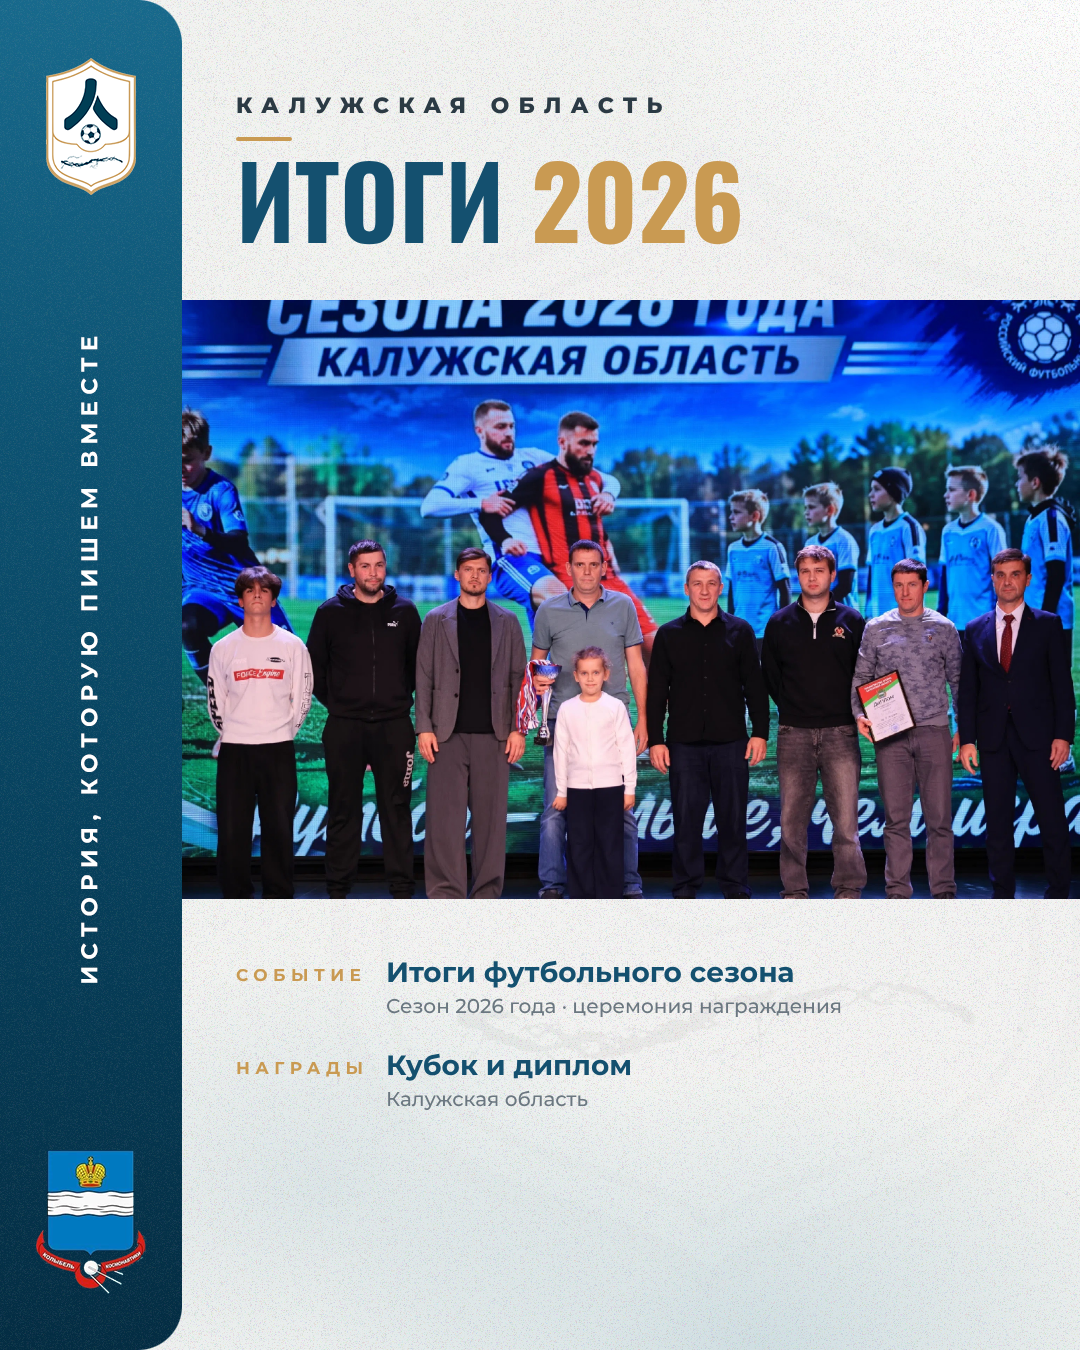
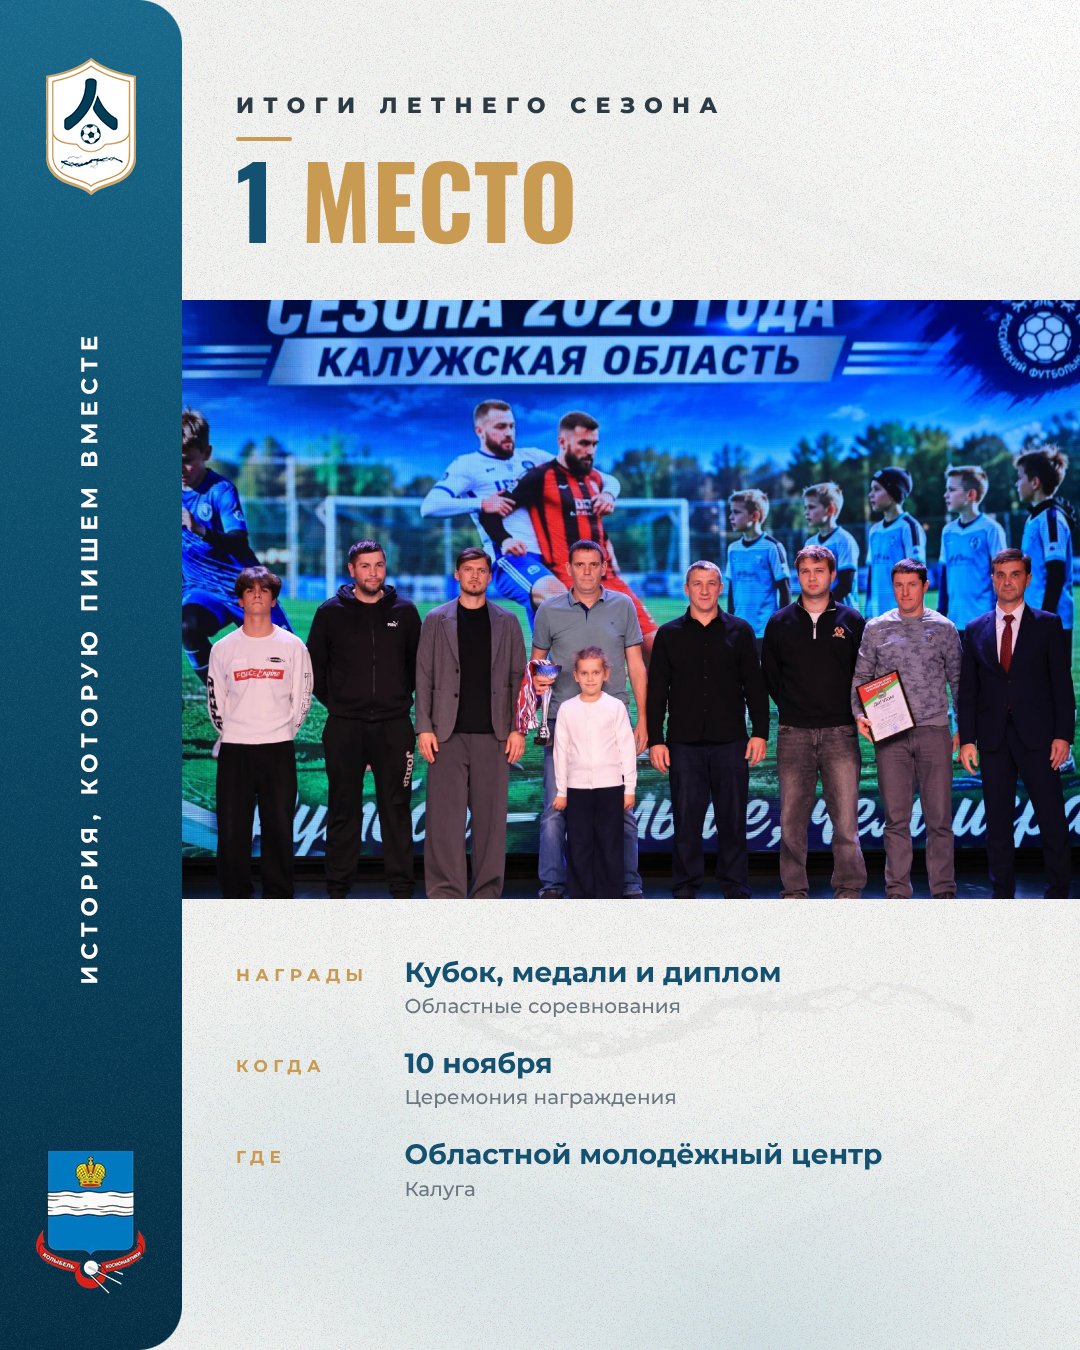
Use post text on cards: team 1st place and individual awards
Claude-Session: https://claude.ai/code/session_01BAoifR2VyKx7kzhUngMqXC

diff --git a/l5-itogi-sezona/source/render.js b/l5-itogi-sezona/source/render.js
@@ -1,11 +1,13 @@
 const {chromium}=require('playwright');const fs=require('fs');const path=require('path');
 const tpl=fs.readFileSync('card.html','utf8');
-const ev=['СОБЫТИЕ','Итоги футбольного сезона','Сезон 2026 года · церемония награждения'];
 const cards=[
- {out:'L5_itogi_sezona_1.png',img:'photo1.jpg',pos:'50% 62%',kick:'КАЛУЖСКАЯ ОБЛАСТЬ',h1:'ИТОГИ <b>2026</b>',
-  rows:[ev,['НАГРАДЫ','Кубок и диплом','Калужская область']]},
- {out:'L5_itogi_sezona_2.png',img:'photo2.png',pos:'50% 60%',kick:'ИТОГИ СЕЗОНА 2026',h1:'ЛИЧНЫЕ <b>НАГРАДЫ</b>',
-  rows:[ev,['НАГРАДЫ','Индивидуальные призы','Калужская область']]},
+ {out:'L5_itogi_sezona_1.png',img:'photo1.jpg',pos:'50% 50%',kick:'ИТОГИ ЛЕТНЕГО СЕЗОНА',h1:'1 <b>МЕСТО</b>',
+  rows:[['НАГРАДЫ','Кубок, медали и диплом','Областные соревнования'],
+        ['КОГДА','10 ноября','Церемония награждения'],
+        ['ГДЕ','Областной молодёжный центр','Калуга']]},
+ {out:'L5_itogi_sezona_2.png',img:'photo2.png',pos:'50% 50%',kick:'ИНДИВИДУАЛЬНЫЕ НОМИНАЦИИ',h1:'ЛУЧШИЕ <b>ИГРОКИ</b>',
+  rows:[['НАПАДЕНИЕ','Иван Родин','Лучший бомбардир и нападающий'],
+        ['ПОЛУЗАЩИТА','Вячеслав Думбрава','Лучший полузащитник']]},
 ];
 (async()=>{const b=await chromium.launch();const p=await b.newPage({viewport:{width:1080,height:1350},deviceScaleFactor:1});
 for(const c of cards){const html=tpl.replace('{{KICK}}',c.kick).replace('{{H1}}',c.h1).replace('{{IMG}}',c.img).replace('{{POS}}',c.pos)

diff --git a/l5-itogi-sezona/source/card.html b/l5-itogi-sezona/source/card.html
@@ -20,7 +20,7 @@ h1{position:absolute;top:148px;font:700 100px/1 Osw;letter-spacing:.005em;color:
 h1 b{color:var(--gold);font-weight:700}
 .card{position:absolute;top:300px;left:-54px;right:-56px}
 .card img{display:block;width:100%;aspect-ratio:3/2;object-fit:cover}
-.rows{position:absolute;top:956px;left:0;right:0;display:grid;grid-template-columns:150px 1fr;row-gap:30px}
+.rows{position:absolute;top:956px;left:0;right:0;display:grid;grid-template-columns:max-content 1fr;column-gap:36px;row-gap:28px}
 .l{font:700 17px Mont;letter-spacing:.32em;color:var(--gold);padding-top:9px}
 .v{font:700 28px/1.15 Mont;color:var(--blue)}
 .v small{display:block;font:500 20px/1.3 Mont;color:var(--muted);margin-top:5px}

diff --git a/l5-itogi-sezona/README.md b/l5-itogi-sezona/README.md
@@ -1,9 +1,9 @@
-# Л5 Калуга — итоги сезона 2026
+# Л5 Калуга — итоги летнего сезона
 
 Две карточки 1080×1350 на фирменном шаблоне группы:
 
-- `L5_itogi_sezona_1.png` — «Итоги 2026», общее фото с кубком и дипломом
-- `L5_itogi_sezona_2.png` — «Личные награды», фото со статуэтками
+- `L5_itogi_sezona_1.png` — «1 место»: кубок, медали, диплом; 10 ноября, Областной молодёжный центр
+- `L5_itogi_sezona_2.png` — «Лучшие игроки»: Иван Родин, Вячеслав Думбрава
 
 Исходники в `source/`: `card.html` — макет, `render.js` — тексты карточек и рендер.
 Поменять текст: правьте массив `cards` в `render.js`, затем
